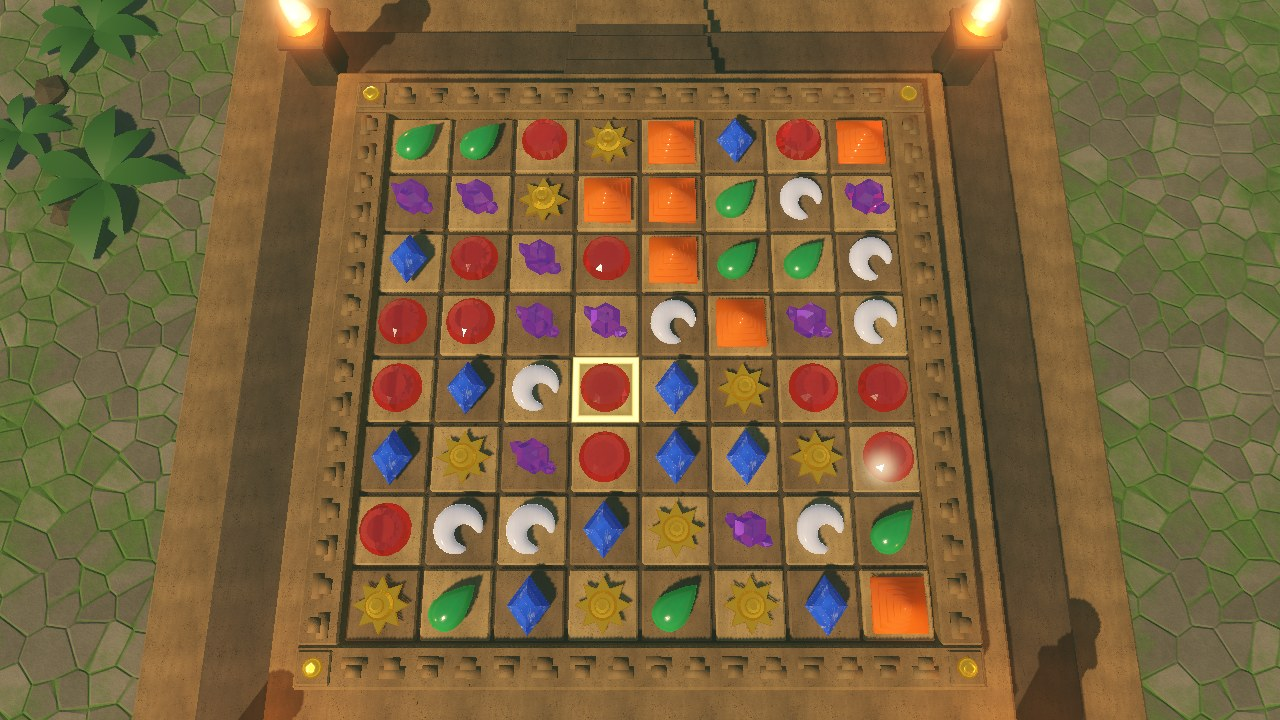
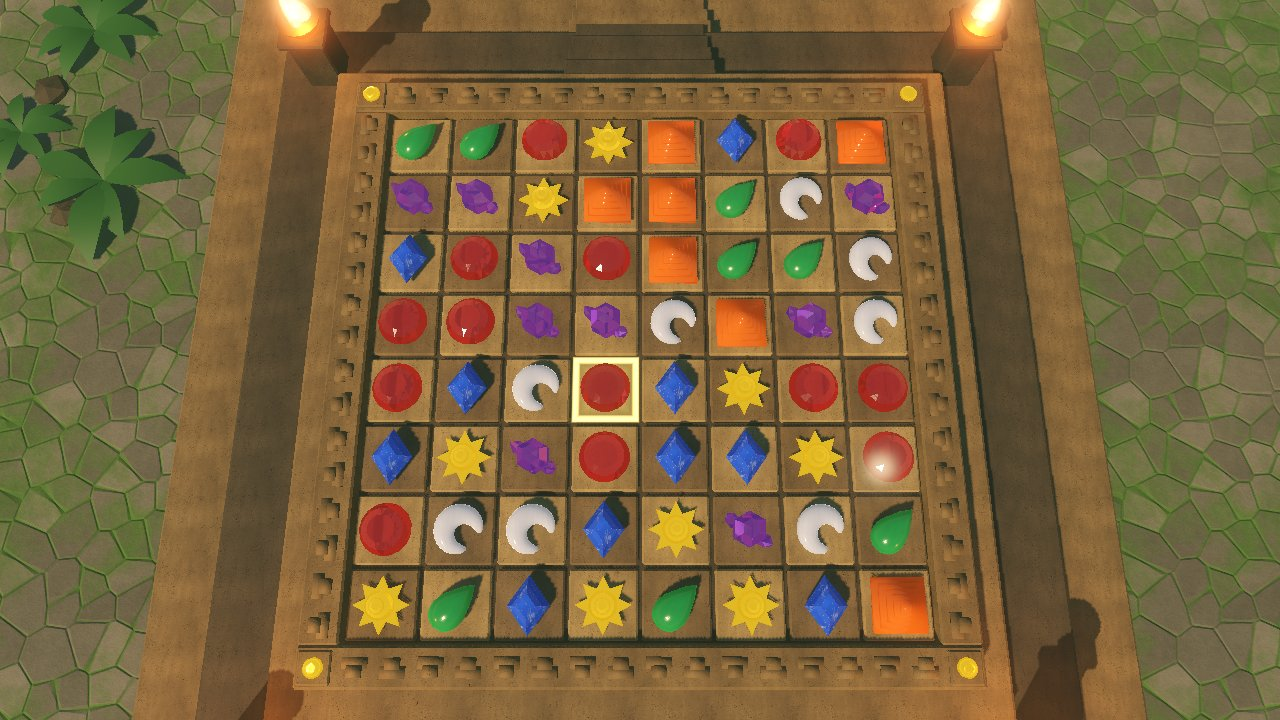
build(assets): generate theme textures in the build, brighten gold
The board theme texture sets are build outputs now: git ignores
game/assets/textures/*/T_*.png, hi/T_*.png and the .inputs stamp, and the
committed sets are removed. gen_theme_textures.py stamps each theme with a
hash of its inputs and skips it when nothing changed. The CMake target
`textures` and the composite action .github/actions/textures (cached by
input hash) run it before the assets check, the Godot tests and exports.

The gold sun piece gets a warmer, stronger emission so it reads as bright
yellow on every tier, Compatibility included; look-dev frames re-captured.

Claude-Session: https://claude.ai/code/session_01L2r2KiCtUWcPcWFNM39ULZ

diff --git a/tools/assets/gen_theme_textures.py b/tools/assets/gen_theme_textures.py
@@ -2,7 +2,13 @@
 # Copyright (C) 2026 Charles (opsroller) and Montezuma contributors
 """Generate a board theme's physically based texture sets with numpy.
 
-    python3 tools/assets/gen_theme_textures.py [tools/assets/themes/temple.json]
+    python3 tools/assets/gen_theme_textures.py [params.json ...]   (default: every tools/assets/themes/*.json)
+
+The textures are build outputs, not sources: git ignores them, and CMake and
+CI run this script before anything loads the game. It records a hash of its
+inputs (this script, the parameters, numpy and Pillow versions) in
+game/assets/textures/<theme>/.inputs and does nothing while that hash and
+every output still match, so calling it on every build is cheap.
 
 Writes one PNG set per entry in the parameters' "textures.sets":
 
@@ -19,11 +25,13 @@ frequency domain, cells wrap), so materials map them triplanar without UVs.
 Same parameters and seed give the same bytes.
 """
 
+import hashlib
 import json
 import sys
 from pathlib import Path
 
 import numpy as np
+import PIL
 from PIL import Image
 
 ROOT = Path(__file__).resolve().parents[2]
@@ -246,7 +254,7 @@ def quantise(a):
 
 def save(img, path, mode):
     path.parent.mkdir(parents=True, exist_ok=True)
-    Image.fromarray(img, mode).save(path, optimize=True)
+    Image.fromarray(img, mode).save(path, compress_level=6)
 
 
 def write_set(out, name, maps, n, spec):
@@ -259,12 +267,35 @@ def write_set(out, name, maps, n, spec):
         save(quantise(height), out / f"T_{name}_H.png", "L")
 
 
-def main():
-    params_path = Path(sys.argv[1]) if len(sys.argv) > 1 else ROOT / "tools/assets/themes/temple.json"
-    p = json.loads(params_path.read_text())
+def outputs(theme_dir, tex):
+    for name, spec in sorted(tex["sets"].items()):
+        maps = ["BC", "N", "ORM"] + (["H"] if spec.get("height") else [])
+        for folder in [theme_dir] + ([theme_dir / "hi"] if spec.get("hi") else []):
+            yield from (folder / f"T_{name}_{m}.png" for m in maps)
+
+
+def inputs_hash(params_bytes):
+    h = hashlib.sha256()
+    for part in (Path(__file__).read_bytes(), params_bytes, np.__version__.encode(), PIL.__version__.encode()):
+        h.update(hashlib.sha256(part).digest())
+    return h.hexdigest()
+
+
+def generate(params_path):
+    raw = params_path.read_bytes()
+    p = json.loads(raw)
     tex = p["textures"]
     base_n, hi_n = tex["size"], tex.get("hi_size", tex["size"])
     out = ROOT / "game/assets/textures" / p["theme"]
+    stamp = out / ".inputs"
+    digest = inputs_hash(raw)
+    expected = list(outputs(out, tex))
+    if stamp.exists() and stamp.read_text().strip() == digest and all(f.exists() for f in expected):
+        print(f"{p['theme']}: textures up to date")
+        return
+    for old in list(out.glob("T_*.png")) + list(out.glob("hi/T_*.png")):
+        if old not in expected:
+            old.unlink()
     for index, (name, spec) in enumerate(sorted(tex["sets"].items())):
         rng = np.random.default_rng([p["seed"], index])
         recipe = RECIPES[spec["recipe"]]
@@ -278,6 +309,13 @@ def main():
             sizes = f"{base_n}"
         write_set(out, name, maps, base_n, spec)
         print(f"T_{name}: {sizes}, BC/N/ORM{'/H' if spec.get('height') else ''}")
+    stamp.write_text(digest + "\n")
+
+
+def main():
+    paths = [Path(a) for a in sys.argv[1:]] or sorted((ROOT / "tools/assets/themes").glob("*.json"))
+    for params_path in paths:
+        generate(params_path)
 
 
 if __name__ == "__main__":

diff --git a/tools/assets/gen_theme_scenes.py b/tools/assets/gen_theme_scenes.py
@@ -51,10 +51,15 @@ class Resource:
         return "\n".join(out).rstrip() + "\n"
 
 
+# The theme's "textures.sets", set by main(). Texture files are build outputs
+# (gen_theme_textures.py), so paths follow the parameters, not the disk.
+TEXTURE_SETS = {}
+
+
 def texture_path(theme, tex_set, suffix, hi):
-    """res:// path of one map of a texture set; the hi/ variant when asked for and present."""
+    """res:// path of one map of a texture set; the hi/ variant when asked for and the set has one."""
     name = f"T_{tex_set}_{suffix}.png"
-    if hi and (ROOT / "game/assets/textures" / theme / "hi" / name).exists():
+    if hi and TEXTURE_SETS.get(tex_set, {}).get("hi"):
         return f"res://assets/textures/{theme}/hi/{name}"
     return f"res://assets/textures/{theme}/{name}"
 
@@ -71,8 +76,8 @@ def shader_material(spec, theme, hi):
     r.body += ["[resource]", f"shader = {shader}"]
     if "set" in spec:
         for key, suffix in (("texture_albedo", "BC"), ("texture_normal", "N"), ("texture_orm", "ORM"), ("texture_height", "H")):
-            path = texture_path(theme, spec["set"], suffix, hi)
-            if (ROOT / "game" / path.removeprefix("res://")).exists():
+            if suffix != "H" or TEXTURE_SETS.get(spec["set"], {}).get("height"):
+                path = texture_path(theme, spec["set"], suffix, hi)
                 r.body.append(f"shader_parameter/{key} = {r.ext_id('Texture2D', path)}")
         r.body.append(f"shader_parameter/albedo = {color(spec.get('albedo_tint', spec['albedo']))}")
         r.body.append(f"shader_parameter/triplanar_scale = {spec.get('triplanar_scale', 1.0)}")
@@ -162,6 +167,7 @@ def main():
     params_path = Path(sys.argv[1]) if len(sys.argv) > 1 else ROOT / "tools/assets/themes/temple.json"
     p = json.loads(params_path.read_text())
     theme = p["theme"]
+    TEXTURE_SETS.update(p["textures"]["sets"])
     assets = ROOT / "game/assets"
     models = f"res://assets/models/{theme}"
     entry = {}

diff --git a/tools/assets/validate_assets.py b/tools/assets/validate_assets.py
@@ -286,7 +286,9 @@ def main():
         if path.suffix in (".tscn", ".tres"):
             for ref in scene_refs(path):
                 if not res_to_path(ref).exists():
-                    errors.append(f"{rel}: references missing {ref}")
+                    hint = "; textures are build outputs, run tools/assets/gen_theme_textures.py first" \
+                        if "/textures/" in ref else ""
+                    errors.append(f"{rel}: references missing {ref}{hint}")
         if path.suffix in (".gdshader", ".obj", ".tscn", ".tres") and SPDX not in path.read_text()[:400]:
             errors.append(f"{rel}: missing the SPDX header line")
         if path.suffix == ".png":

diff --git a/docs/reference/board-themes.md b/docs/reference/board-themes.md
@@ -47,8 +47,8 @@ to the view's placeholder.
 | `game/assets/materials/<theme>/` | `MI_*.tres` materials: the base variant every tier can load (mobile, web, fallback) |
 | `game/assets/materials/<theme>/hi/` | desktop variants of some of those materials, same file names |
 | `game/assets/materials/shaders/` | `SH_*.gdshader` and `SH_*.gdshaderinc`, shared by all themes |
-| `game/assets/textures/<theme>/` | `T_<Set>_{BC,N,ORM,H}.png` base texture sets, at most 1024² |
-| `game/assets/textures/<theme>/hi/` | desktop variants of the hero sets, same file names, at most 2048² |
+| `game/assets/textures/<theme>/` | `T_<Set>_{BC,N,ORM,H}.png` base texture sets, at most 1024²; build outputs, ignored by git (see below) |
+| `game/assets/textures/<theme>/hi/` | desktop variants of the hero sets, same file names, at most 2048²; build outputs too |
 | `game/assets/lookdev/` | `LD_*.tscn` look-dev scenes (game camera, line-up) |
 | `game/assets/PROVENANCE.md` | one record per theme or asset family |
 
@@ -101,7 +101,21 @@ byte-identical files.
 | `python3 tools/assets/gen_theme_scenes.py [params]` | `MI_*.tres` and `hi/MI_*.tres`, `PF_*.tscn`, `LD_*.tscn`, the theme's manifest entry, `design/tokens/<theme>-board.json` | standard library |
 | `python3 tools/assets/validate_assets.py` | nothing; exits 1 on errors | Pillow |
 
-`params` defaults to `tools/assets/themes/temple.json`.
+`params` defaults to `tools/assets/themes/temple.json`
+(`gen_theme_textures.py` with no argument does every theme in
+`tools/assets/themes/`).
+
+The `T_*` texture sets are build outputs, not committed: git ignores
+`game/assets/textures/*/T_*.png`, `*/hi/T_*.png` and the `.inputs` stamp.
+Hand-made textures elsewhere in `game/assets/textures/` are still
+committed. `gen_theme_textures.py` writes a theme's `.inputs` stamp, a
+SHA-256 of the script, the theme's parameters and the numpy and Pillow
+versions, and skips the theme when the stamp matches and every file
+exists. Three things run it: the CMake target `textures` (part of `all`
+when CMake finds Python 3 with numpy and Pillow; otherwise configure
+prints how to run it), the CI action `.github/actions/textures` (see
+[CI pipeline](ci-pipeline.md#assets-workflow)), and you, before opening
+the project in Godot from a fresh checkout.
 
 ### Parameter file
 
@@ -157,8 +171,8 @@ A full 8×8 board of pieces averages about 260 triangles each (~17k), so
 the whole scene stays near 31k triangles. Draw calls: one per piece (64),
 6 board parts, 7 backdrop parts, plus shadow passes; pieces share 7
 materials. Textures: seven base sets at 1024² (`Stone_01` with `_H`;
-22 PNGs, 15 MB on disk) and 2048² `hi/` sets for the hero surfaces
-`Stone_01` and `Gold_01` (7 PNGs, 23 MB on disk); all are VRAM-compressed
+22 PNGs, 15 MB generated) and 2048² `hi/` sets for the hero surfaces
+`Stone_01` and `Gold_01` (7 PNGs, 23 MB generated); all are VRAM-compressed
 on import. In VRAM (BPTC/ASTC, about 1 byte per pixel with mipmaps) the
 base sets take about 30 MB and the `hi/` sets add about 40 MB, well
 inside every tier's texture budget. Frame time on target phones

diff --git a/docs/reference/ci-pipeline.md b/docs/reference/ci-pipeline.md
@@ -54,17 +54,19 @@ caches are set up this way.
 
 ## Assets workflow
 
-`.github/workflows/assets.yml` runs `tools/assets/validate_assets.py`
-against `game/assets/` and the theme manifest. Rules it enforces:
+`.github/workflows/assets.yml` generates the board theme textures, then
+runs `tools/assets/validate_assets.py` against `game/assets/` and the
+theme manifest. Rules it enforces:
 [Board themes: validator rules](board-themes.md#validator-rules).
 
 | Item | Value |
 |---|---|
 | Triggers | every `push` to `main` and every `pull_request`, no path filter; a new push cancels the PR's older run |
-| Job | `validate`, on `ubuntu-24.04`, 5-minute timeout |
+| Job | `validate`, on `ubuntu-24.04`, 10-minute timeout |
 | Token permissions | `contents: read` |
-| Python packages | `.github/requirements/assets.txt`: Pillow 12.3.0, installed with `--require-hashes` into a virtual environment |
-| What red means | an `error:` line in the log names the file and the broken rule: a manifest path or scene reference that does not exist, a file that does not parse as its format, a piece or board over its triangle budget, a texture over 1024 px (2048 px in `hi/`) or not power-of-two, a texture map in the wrong colour space, slot or value range, a desktop `hi/` variant without a base file, a mobile or web export preset that ships `hi/`, a missing provenance record or SPDX line, or a name off the naming table |
+| Python packages | `.github/requirements/assets.txt`: numpy 2.5.3 and Pillow 12.3.0, installed with `--require-hashes` into a virtual environment |
+| Textures | composite action `.github/actions/textures`: restores `game/assets/textures/*/T_*.png`, `*/hi/T_*.png` and `.inputs` from the Actions cache, key `textures-` plus a hash of `gen_theme_textures.py`, `tools/assets/themes/*.json` and `assets.txt`; on a miss runs `gen_theme_textures.py` (about 40 s). The `tests` extension job (Linux) and the `build` export job use the same action before Godot imports the project |
+| What red means | a failed `Generate textures` step (a generator error), or an `error:` line in the log names the file and the broken rule: a manifest path or scene reference that does not exist, a file that does not parse as its format, a piece or board over its triangle budget, a texture over 1024 px (2048 px in `hi/`) or not power-of-two, a texture map in the wrong colour space, slot or value range, a desktop `hi/` variant without a base file, a mobile or web export preset that ships `hi/`, a missing provenance record or SPDX line, or a name off the naming table |
 
 The job takes seconds, so it has no path filter: a check that a PR can
 skip could never be made required.

diff --git a/docs/how-to/build-and-test.md b/docs/how-to/build-and-test.md
@@ -63,15 +63,19 @@ It ends with `Match3Game self-test: <n> moves, outcome 1, <n> cues, 0 failures`.
 
 ## Check the assets
 
-Needs Python 3 and Pillow. This is the `assets` CI job.
+Needs Python 3, numpy and Pillow. This is the `assets` CI job. The board
+theme textures are generated, not committed, so generate them first; the
+same step makes them for the Godot editor. A CMake build does it too
+(target `textures`) when it finds numpy and Pillow.
 
 ```sh
 python3 -m venv .venv
 .venv/bin/pip install --require-hashes -r .github/requirements/assets.txt
+.venv/bin/python tools/assets/gen_theme_textures.py # skips themes whose inputs did not change
 .venv/bin/python tools/assets/validate_assets.py    # exits 1 on any error
 ```
 
-The hashes in `assets.txt` cover every platform Pillow ships wheels for,
+The hashes in `assets.txt` cover every platform numpy and Pillow ship wheels for,
 so the same commands work on Linux, macOS and Windows. On Windows the
 venv's programs are in `.venv\Scripts\`.
 

diff --git a/docs/how-to/make-a-board-theme.md b/docs/how-to/make-a-board-theme.md
@@ -27,6 +27,11 @@ With a Blender install instead of `bpy`, run the mesh step as
    python3 tools/assets/validate_assets.py
    ```
 
+   The textures are not committed. In a fresh checkout run
+   `gen_theme_textures.py` (or build the CMake target `textures`) before
+   opening the project in Godot; it does nothing when its inputs have not
+   changed.
+
 3. Open `game/assets/lookdev/LD_Temple.tscn` (whole board from the game
    camera) and `LD_Temple_LineUp.tscn` (pieces close up) in Godot, or render
    them headless:

diff --git a/game/assets/PROVENANCE.md b/game/assets/PROVENANCE.md
@@ -67,7 +67,7 @@ files:
   - game/assets/materials/shaders/SH_Triplanar.gdshaderinc
   - game/assets/lookdev/LD_Temple_Hi.tscn
   - game/assets/lookdev/LD_Temple_LineUp_Hi.tscn
-origin: generated
+origin: generated (textures at build time, not committed; materials, shaders and scenes committed)
 authors: [technical-artist (Claude)]
 created: 2026-10-18
 source:
